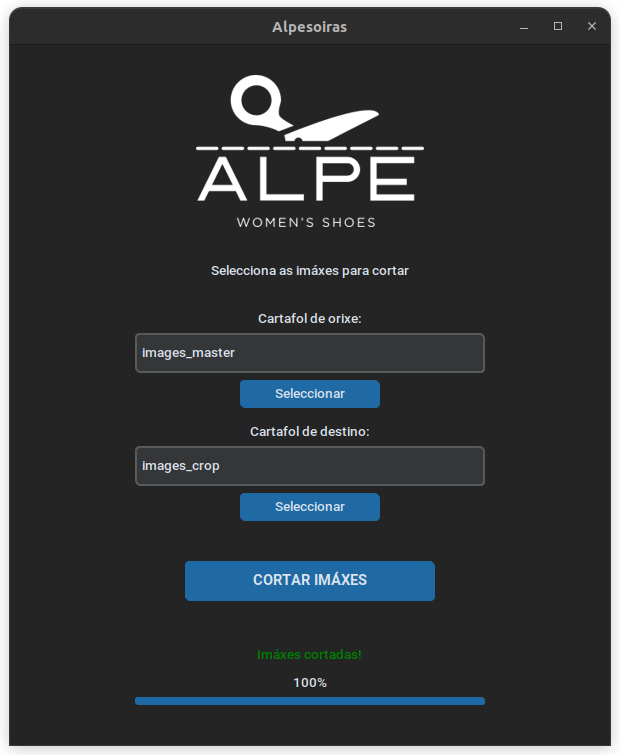
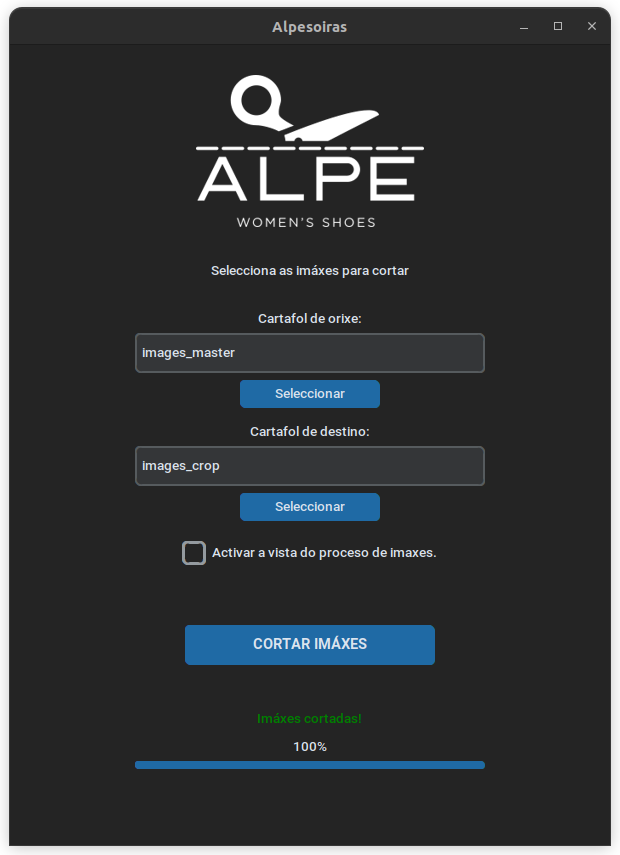
vista previa del proceso

diff --git a/app.py b/app.py
@@ -90,8 +90,9 @@ def procesar_imagenes():
             
             progress_bar.set(float(percentage_compl) / 100)
 
-
-            # plt.show()
+            check_state = check_var.get()
+            if check_state == "on":
+                plt.show()
 
         finishLabel.configure(text = "Imáxes cortadas!", text_color="green")
 
@@ -105,7 +106,7 @@ customtkinter.set_default_color_theme("blue")
 # Crear la ventana principal
 app = customtkinter.CTk()
 app.title("Alpesoiras")
-app.geometry("600x700")
+app.geometry("600x800")
 
 reductor = 0.85
 
@@ -130,6 +131,11 @@ customtkinter.CTkLabel(app, text="Cartafol de destino:").pack(pady=(10, 0))
 entrada_destino = customtkinter.CTkEntry(app, width=350, height=40)
 entrada_destino.pack()
 customtkinter.CTkButton(app, text="Seleccionar", command=seleccionar_carpeta_destino).pack(pady=(7, 0))
+
+# Mostrar proceso imagenes
+check_var = customtkinter.StringVar(value="off")
+checkbox = customtkinter.CTkCheckBox(app, text="Activar a vista do proceso de imaxes.", variable=check_var, onvalue="on", offvalue="off")
+checkbox.pack(pady=20)
 
 # Botón para procesar
 font_bold = customtkinter.CTkFont(weight="bold", size=14)

diff --git a/README.md b/README.md
@@ -29,9 +29,14 @@ Todas las imágenes de la carpeta de origen se copiarán recortadas a la carpeta
 Una vez terminada la copia mata el proceso en la terminal pulsando
 `Ctrl + Z`
 
-![Logo del proyecto](screen.png)
+![captura de pantalla](screen.png)
 
 
+## Modo vista previa
 
+Si activas **"Activar a vista do proceso de imaxes."** por cada imágen se mostrará una ventana de *vista previa* de la imagen sin recortar, de la zona seleccionada y de la salida final.
 
+![vista previa de recortes](dev_view.png)
+
+> *Ten en cuenta que si son muchas las imágenes a recortar el proceso puede prolongarse mucho. Si deseas abortar esta vista mata el proceso en la terminal y vuelve a lanzar la cola de recorte.*
 
